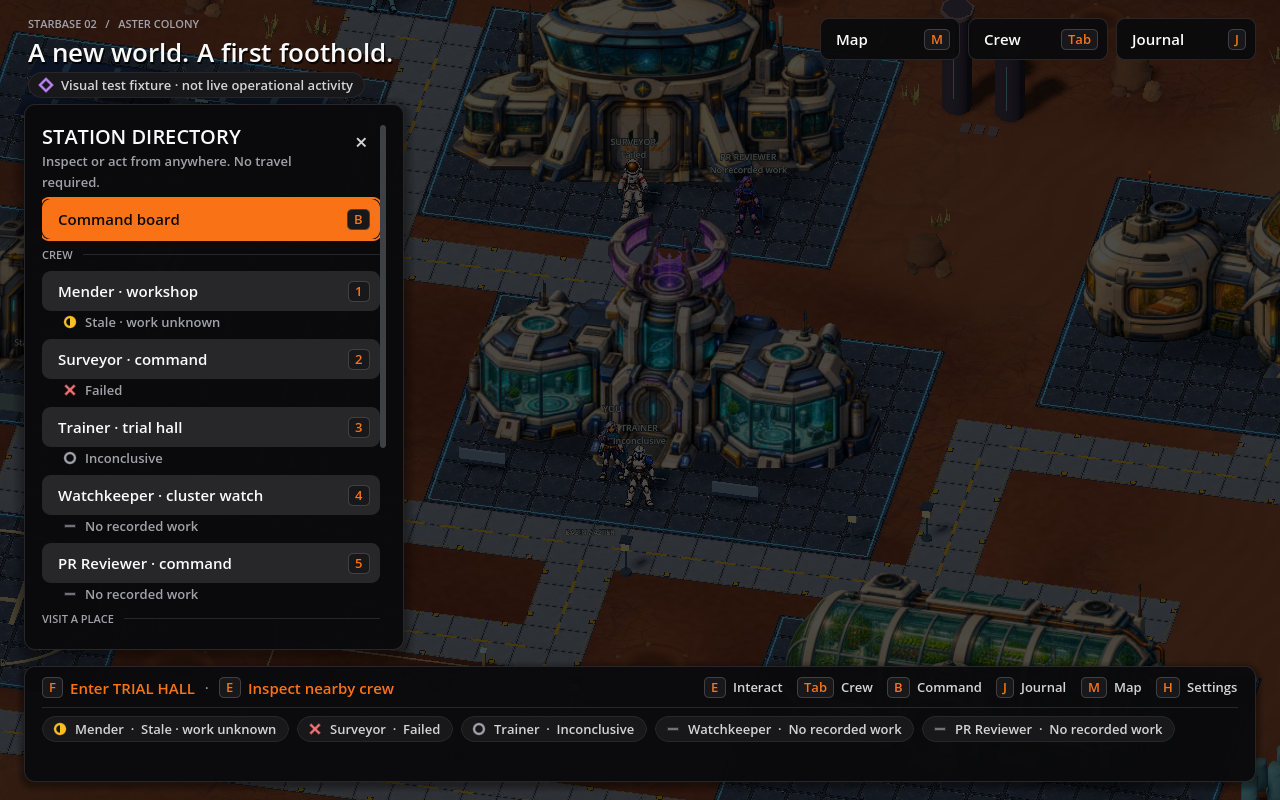
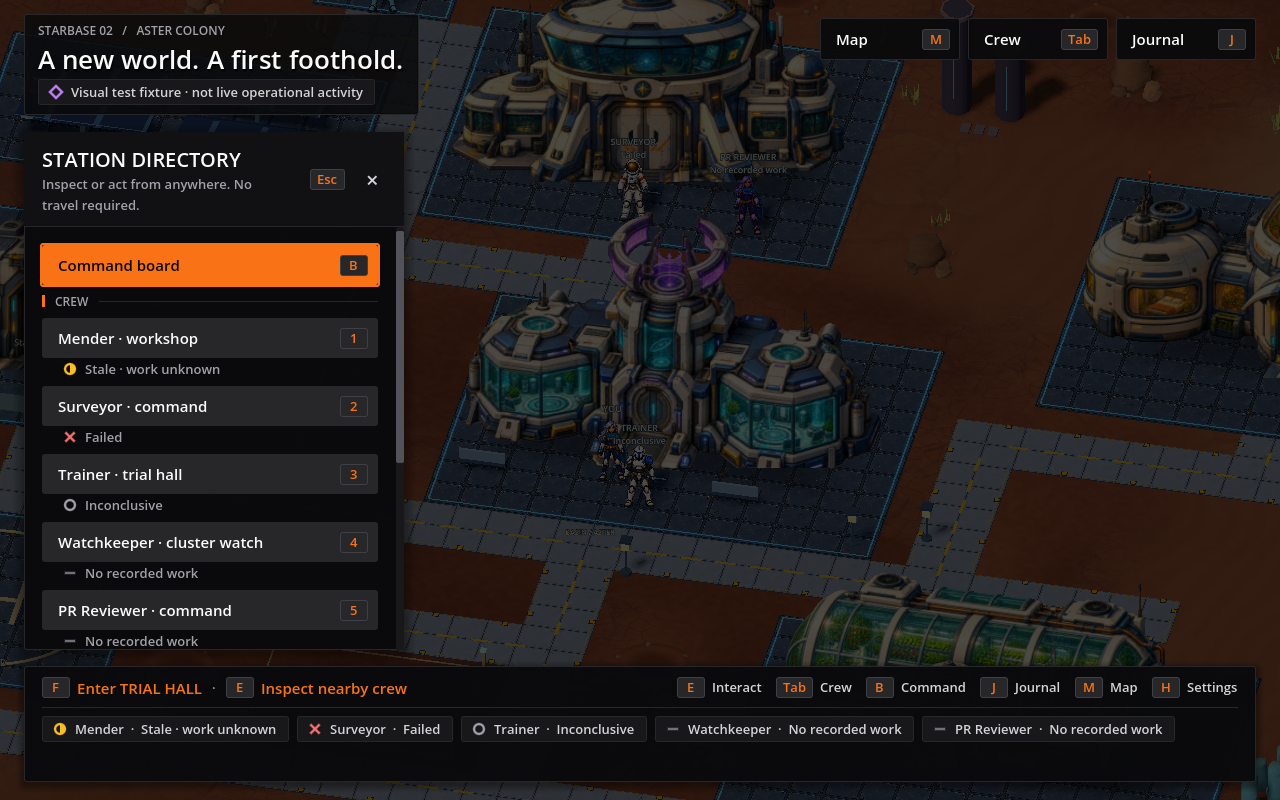
Square the native chrome and tighten readability and navigation
Use a two-pixel radius everywhere so edges read as panels. Give every
panel a header band with the title, key cap and close control in one
place above a padded scrolling body; put the masthead on a backing strip
so it stays legible over bright terrain and start panels beneath it.
Status and record cards carry a tone-coloured rail on their leading edge,
section titles carry an accent notch, the active tab carries an accent
underline, keyboard focus is a two-pixel accent ring with a tint,
scrollbars are wider and brighter, eyebrow text is one step larger and
disabled text stays readable. Compact viewports omit header key caps so
titles do not wrap. Captures, suite log and the design record are
refreshed.

Claude-Session: https://claude.ai/code/session_01UQ2t3SMP9mz813VbnCT41H

diff --git a/docs/world-ui.md b/docs/world-ui.md
@@ -23,9 +23,18 @@ One theme module, [`ui_theme.gd`](../apps/world/ui_theme.gd), owns colour tokens
 a type scale, panel/button/input/tab/scrollbar styles and small composable parts.
 The palette follows the shadcn dark convention: near-black zinc surfaces, one-pixel
 neutral borders, white headings, muted secondary text and a single orange accent
-for primary actions, key caps, section titles and prompts. Button variants are
-secondary (default), primary, outline, ghost, destructive and icon; tabs are a
-segmented list. The parts are:
+for primary actions, key caps, section titles and prompts. Corners are angular
+(a two-pixel radius everywhere), so edges read as panels rather than pills.
+Button variants are secondary (default), primary, outline, ghost, destructive
+and icon; tabs are a segmented list whose active tab carries an accent underline.
+
+Readability and navigation follow common game-interface practice: every panel
+has a header band with the title and the close control in the same place, and
+its body scrolls beneath it; the masthead sits on a backing strip so it stays
+legible over bright terrain; status and record cards carry a tone-coloured rail
+on their leading edge so a column scans before it is read; section titles carry
+a short accent notch; keyboard focus is a two-pixel accent ring with a tint;
+scrollbars are wide enough to see; and disabled text stays readable. The parts are:
 section rules, cards, key caps, badges, chips, toasts and a `Glyph` control. Every
 panel is built from those parts; no panel defines its own colours.
 
